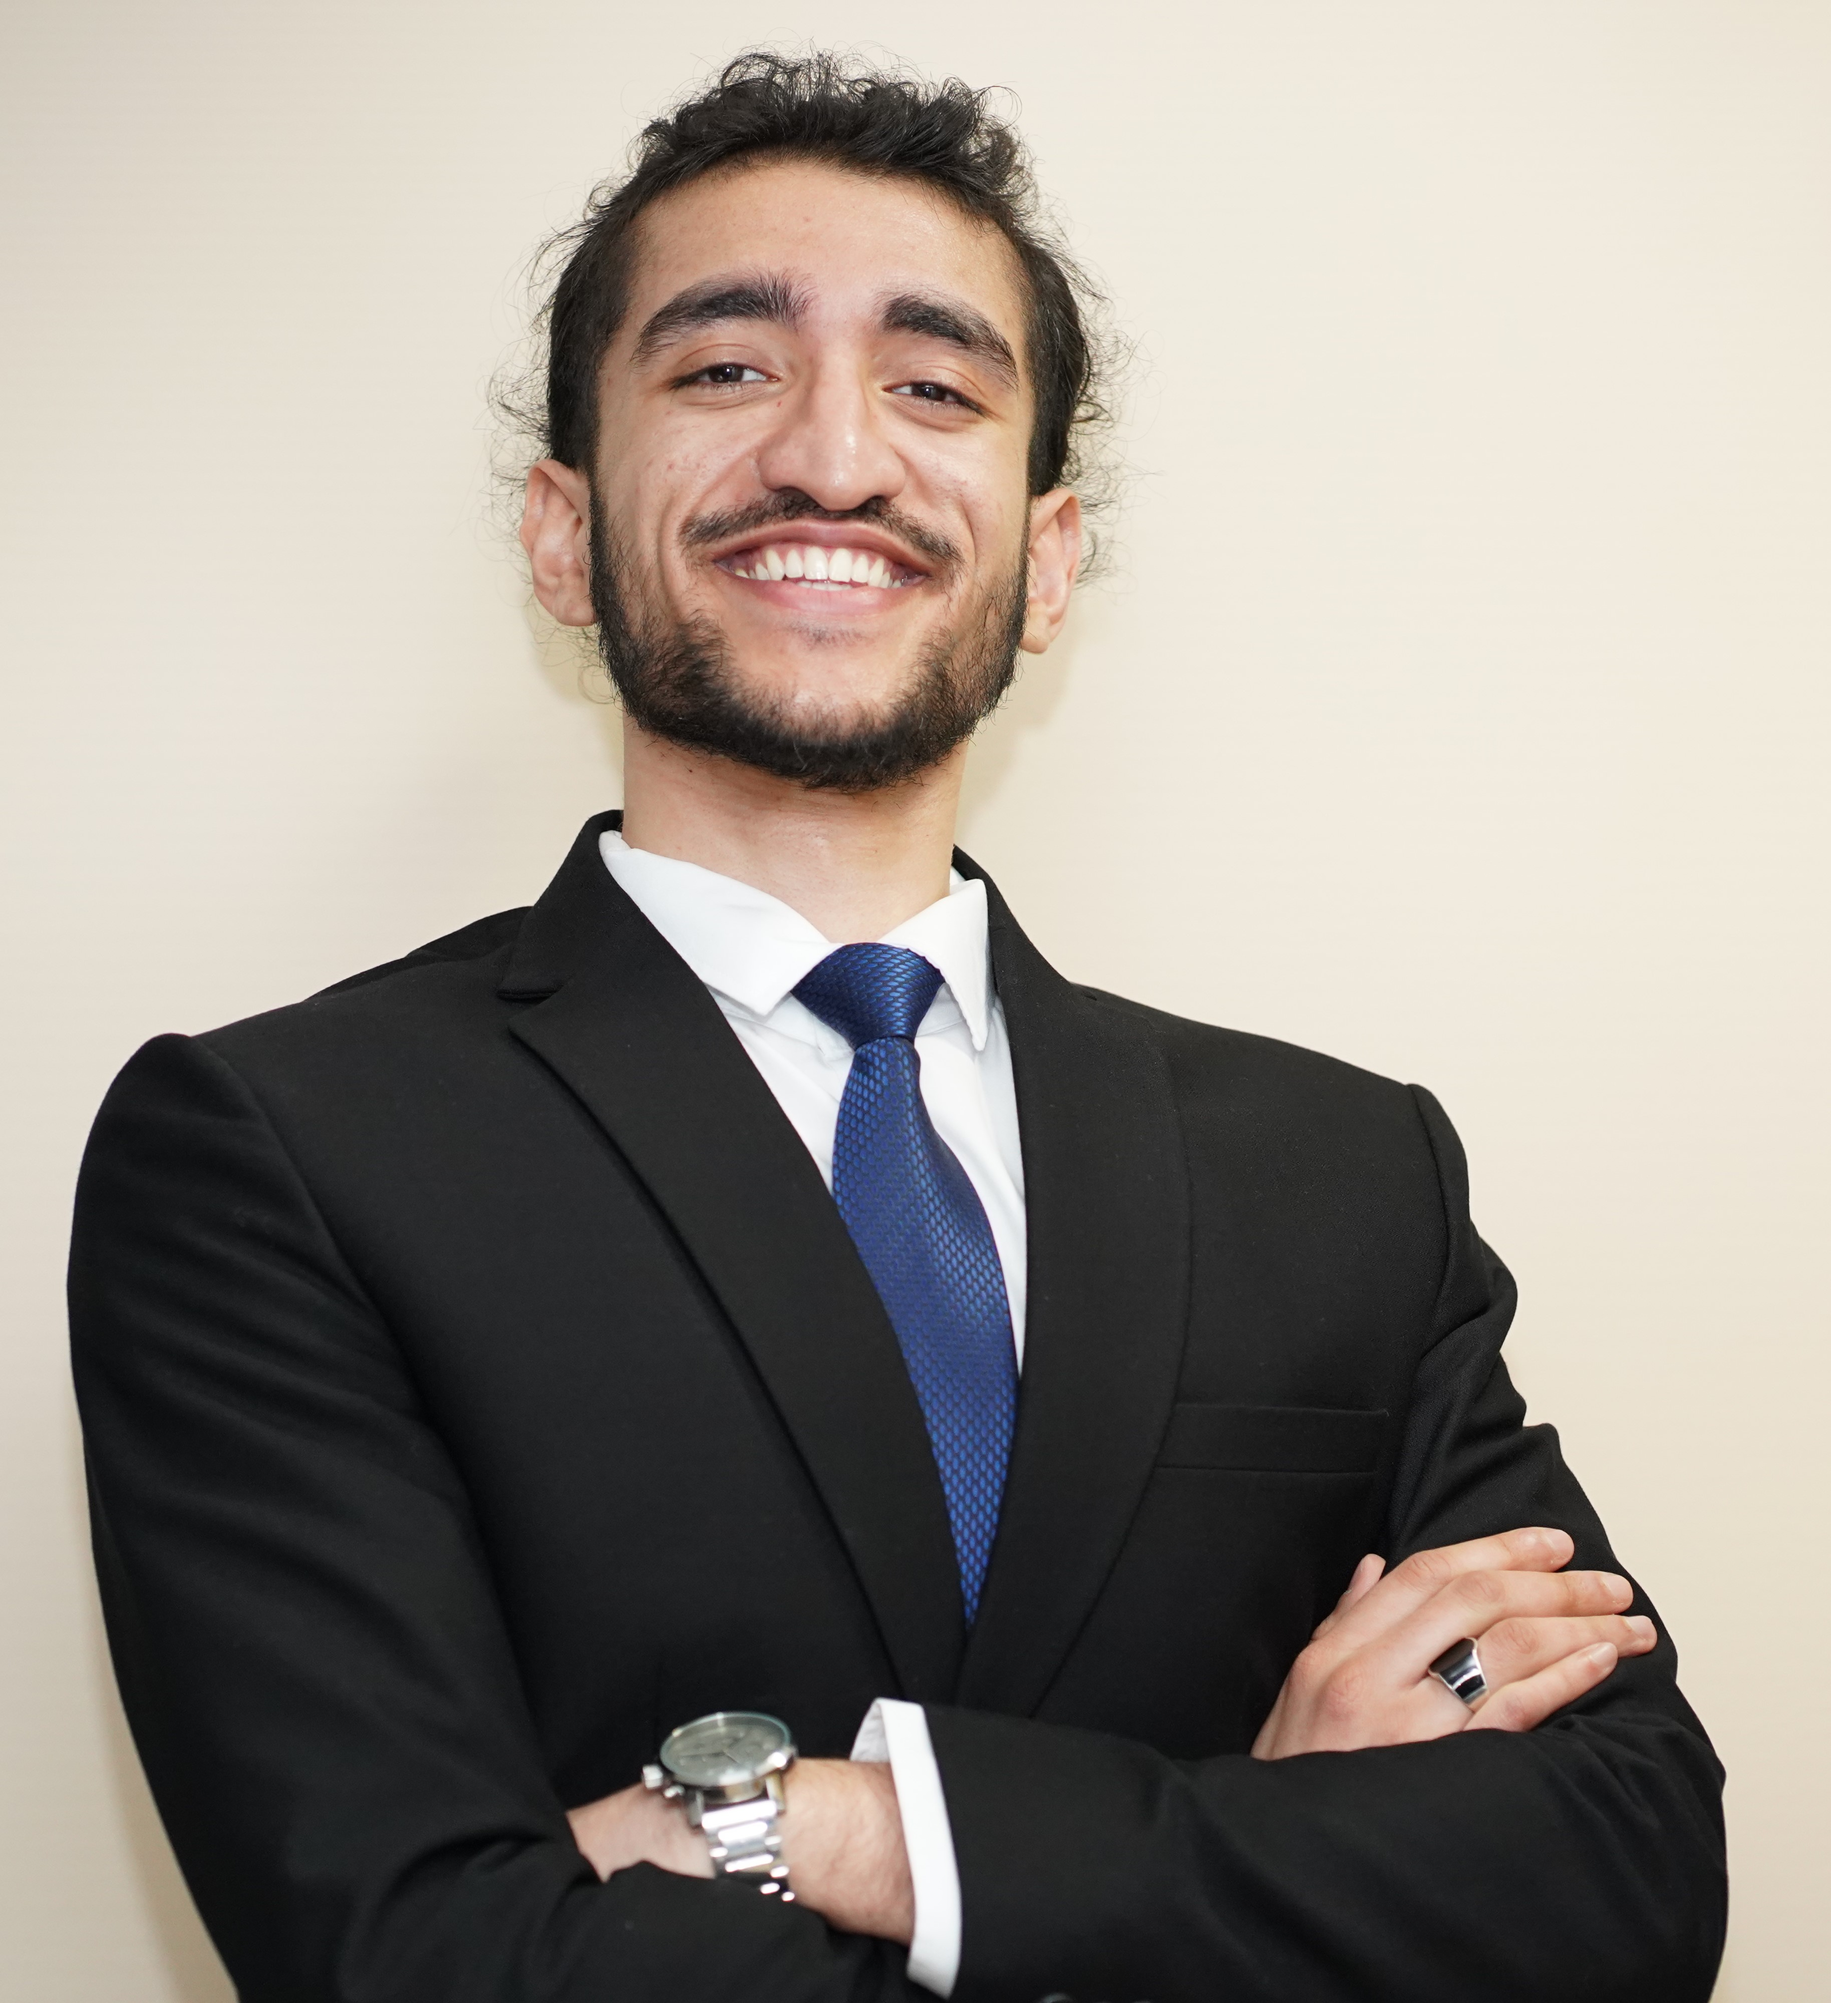
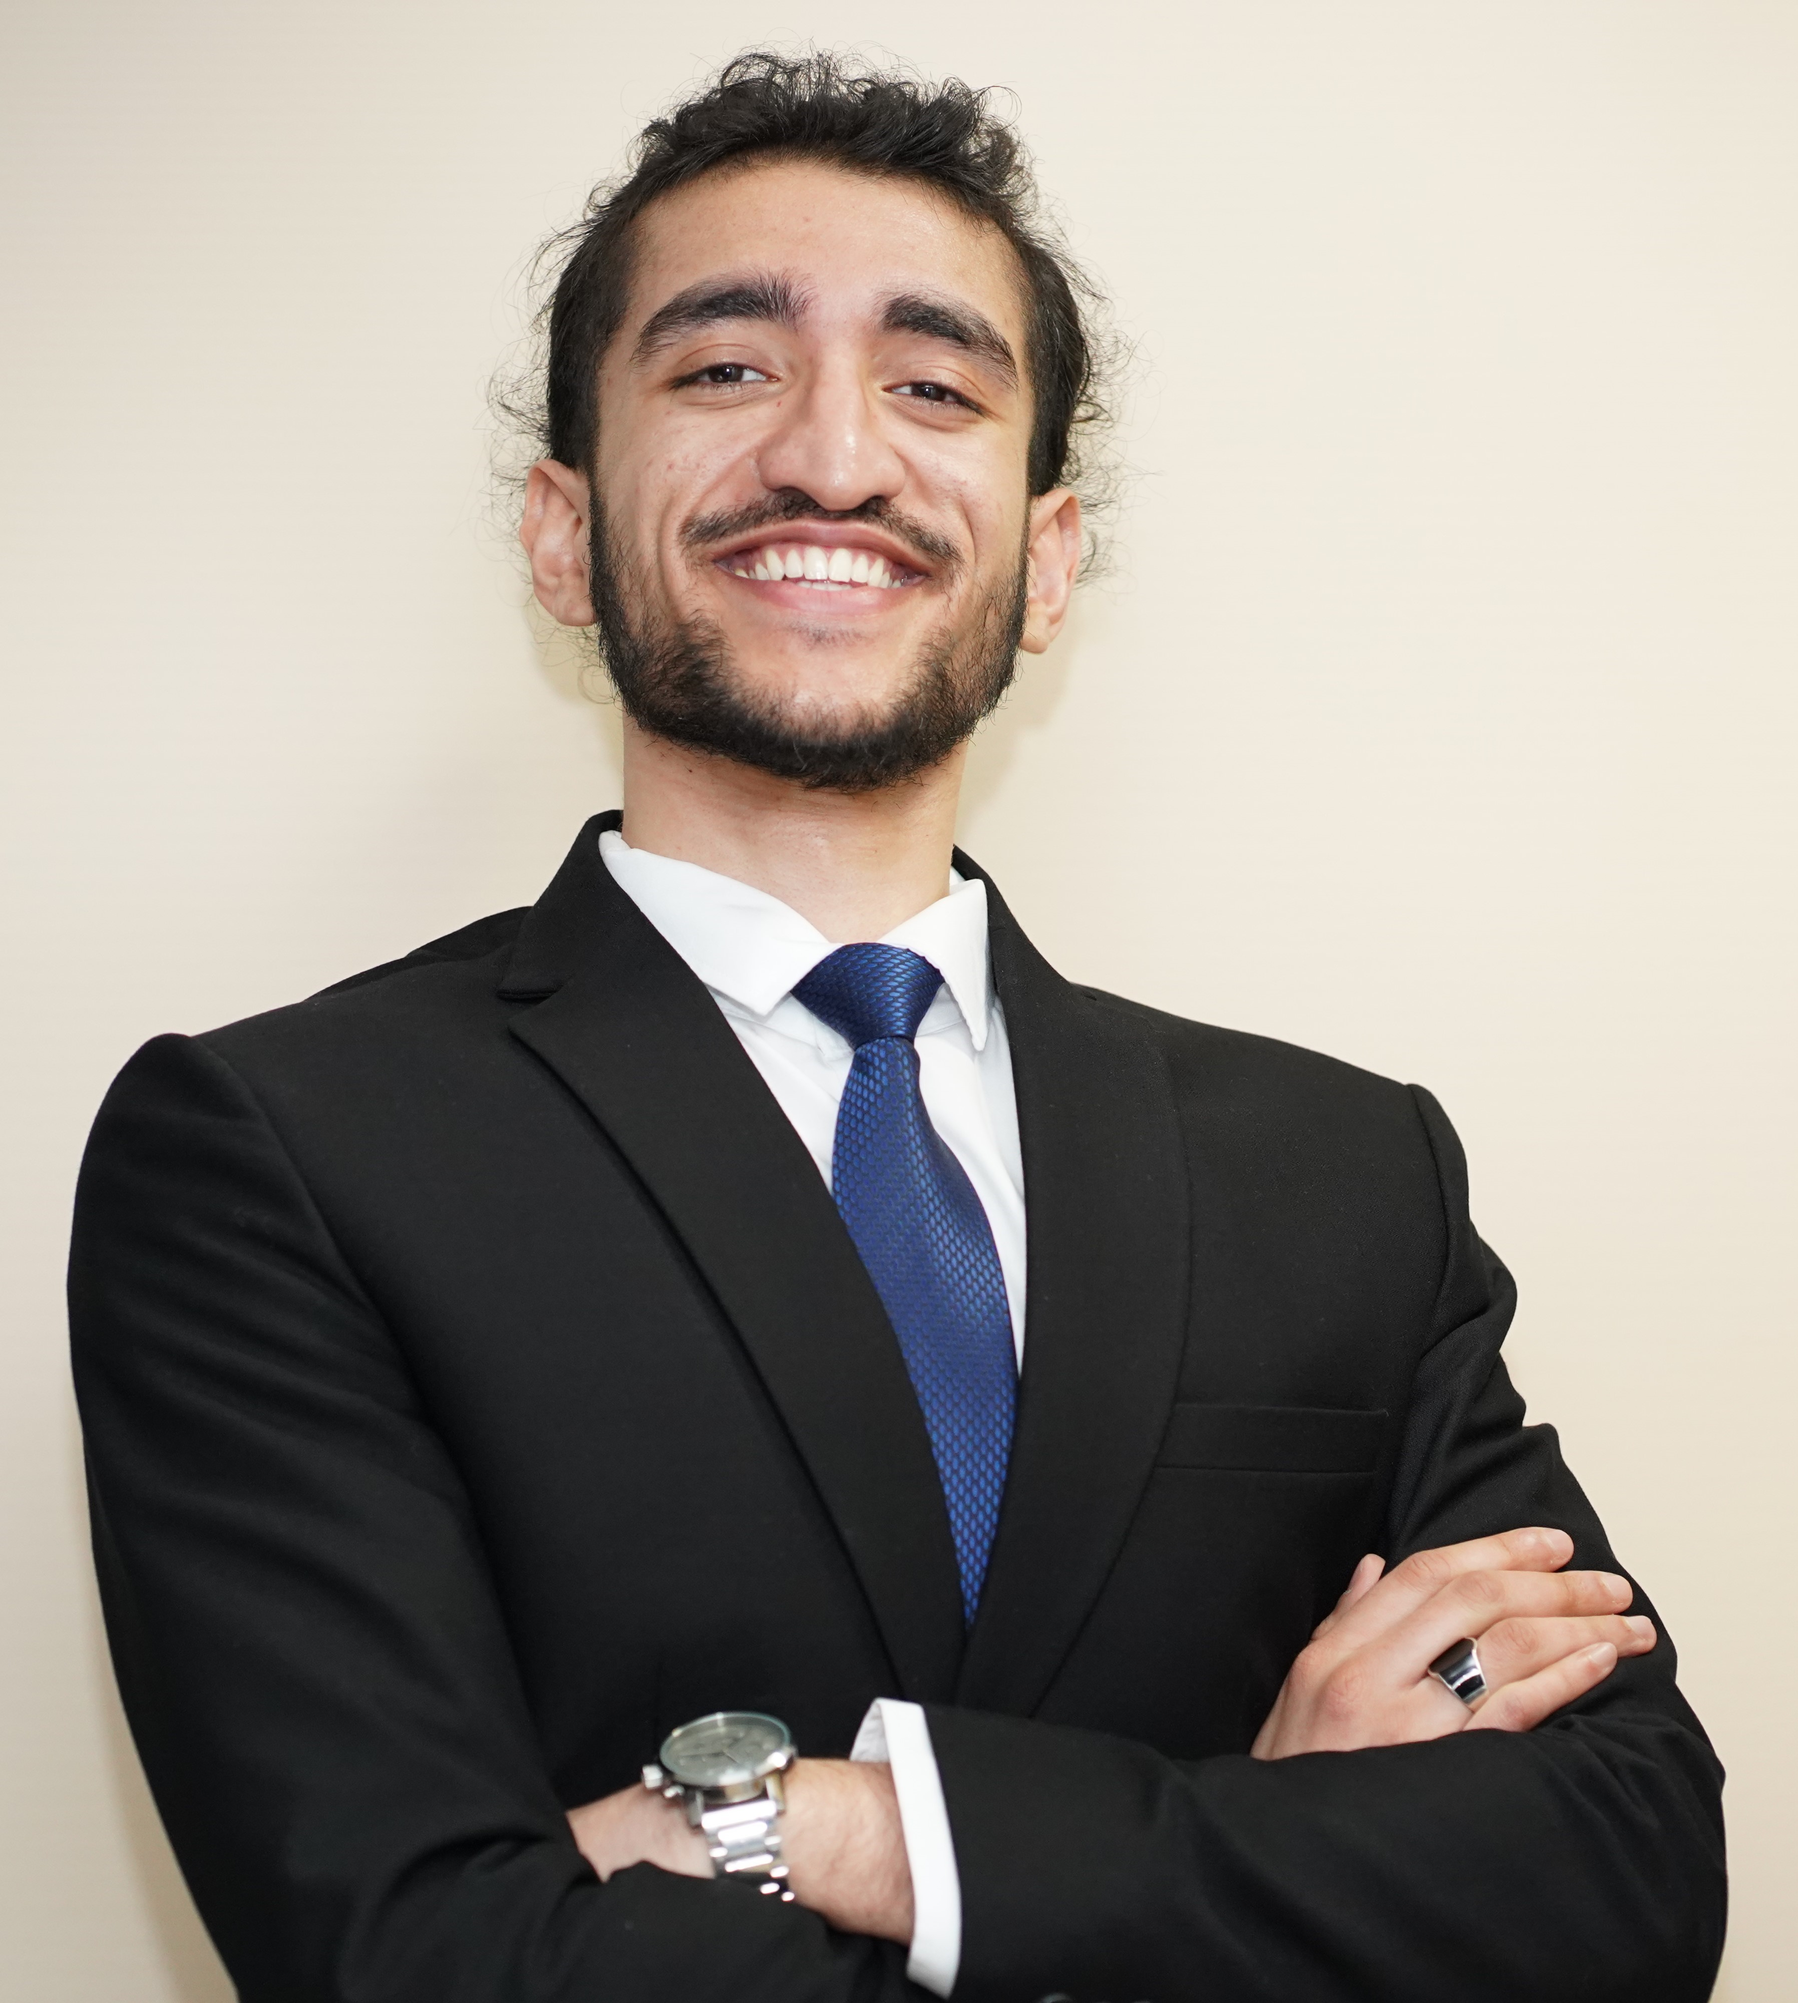
Changed team pics and cropped to match heights

diff --git a/index.html b/index.html
@@ -435,7 +435,7 @@
                 <div class="col-lg-3 col-md-6 wow fadeInUp" data-wow-delay="0.1s">
                     <div class="team-item position-relative">
                         <div class="position-relative">
-                            <img class="img-fluid" src="img/BossManArif.jpg" alt="">
+                            <img class="img-fluid" src="img/BossManArif1.jpg" alt="">
                             <div class="team-social text-center">
                                 <a class="btn btn-square btn-outline-primary border-2 m-1" href="https://www.facebook.com/rajputdrivingschoolwindsor"><i class="fab fa-facebook-f"></i></a>
                                 <!-- <a class="btn btn-square btn-outline-primary border-2 m-1" href=""><i class="fab fa-twitter"></i></a> -->
@@ -451,7 +451,7 @@
                 <div class="col-lg-3 col-md-6 wow fadeInUp" data-wow-delay="0.3s">
                     <div class="team-item position-relative">
                         <div class="position-relative">
-                            <img class="img-fluid" src="img/AbdulArif.JPG" alt="">
+                            <img class="img-fluid" src="img/AbdulArif1.JPG" alt="">
                             <div class="team-social text-center">
                                 <a class="btn btn-square btn-outline-primary border-2 m-1" href="https://www.facebook.com/abdulrehman.arif.7967"><i class="fab fa-facebook-f"></i></a>
                                 <a class="btn btn-square btn-outline-primary border-2 m-1" href="https://www.linkedin.com/in/abdularif0705/"><i class="fab fa-linkedin-in"></i></a>
